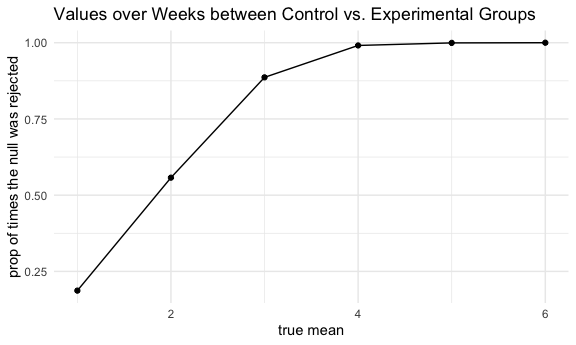
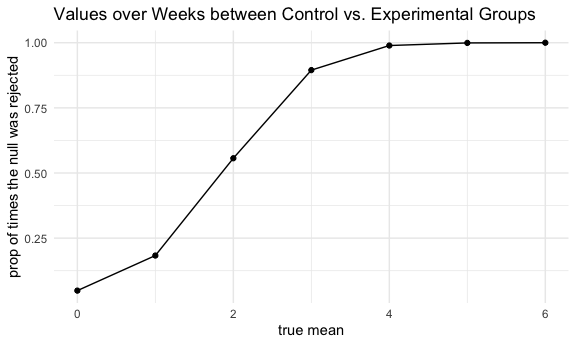
finalize report

diff --git a/p8105_hw5_th2533.md b/p8105_hw5_th2533.md
@@ -418,7 +418,7 @@ Repeat the above for μ={1,2,3,4,5,6}.
 ``` r
 sim_results_mu =
   tibble(
-    mu = c(1,2,3,4,5,6)
+    mu = c(0,1,2,3,4,5,6)
   ) %>% 
   mutate(
     output_lists = map(.x = mu, ~ rerun(5000, sim_ttest(mu = .x))),
